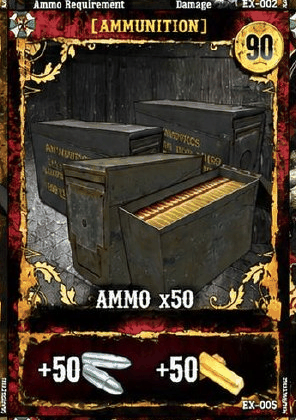
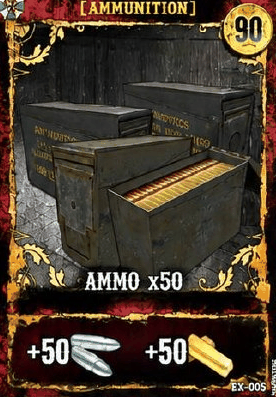
Art: re-pull the Unofficial Expansion 1 cards from the updated sheets
Manny supplied a new EX sheet and asked for EX-001..EX-009 to be pulled
from it. The sheet is a 3x3 grid whose top-middle slot is empty (pure
white) - that is EX-002's slot - so it carries only eight cards. He then
sent the EX-002 Special Rocket Launcher card on its own and said to use
it for EX-002.

All nine are re-renders, not the old artwork re-cropped: a resize-and-diff
against the previous files scores 64-89 mean abs difference across every
band. Each was quantized to 256 colours at ~274-282 px wide (EX-002
downscaled from 1054 to 282 to match the set).

Grid boundaries needed care. The strong dark peaks in the edge-strength
profile are the cards' OWN frames, not gutters - the real gutters are only
1-2px. The reliable anchors are the white empty slot (x 283..558) and the
black outer margins, giving card rectangles at x 1..282 / 283..558 /
559..832 and y 1..404 / 414..810 / 813..1215. The first attempt used the
dark peaks as gutters and cut 4-5px into every card.

The crops are tight to each card's decorative frame with no white border,
which matches the rest of CARD-ART (MA-001, WE-001, AC-001 and IT-002 all
measure 0% white border). The previous EX art was the anomaly, carrying a
few px of blank card base outside the frame.

Verified: vite build emits all nine hashed assets and :1724 serves them.

diff --git a/HANDOFF.md b/HANDOFF.md
@@ -1,5 +1,26 @@
 # HANDOFF — resume here
 
+**Unofficial Expansion 1 art re-pulled from Manny's updated sheets (2026-11-10):** Manny sent a
+new EX sheet (840x1216 PNG) and asked for EX-001..EX-009 to be pulled from it. It is a 3x3 grid
+with the **top-middle slot EMPTY (pure white, RGB 255,255,255, std 0)** — that is EX-002's slot,
+so the sheet carries only 8 cards. He then sent the EX-002 Special Rocket Launcher card
+separately (1054x1492 PNG, card face only, no background) and said "use this for ex-002".
+Mapping: EX-001<-r0c0, EX-003<-r0c2, EX-004<-r1c0, EX-005<-r1c1, EX-006<-r1c2, EX-007<-r2c0,
+EX-008<-r2c1, EX-009<-r2c2 (confirmed by reading each bottom-right corner crop individually; a
+full-sheet read mislabelled r0c2 as EX-002 - the name "Weapon Case" is EX-003, EX-002 is the
+Special Rocket Launcher weapon card). **Grid boundaries were the tricky part:** the strong
+dark peaks in the edge-strength profile are the CARDS' OWN frames, not gutters - the real
+gutters/margins are only 1-2px. The reliable anchors are the white empty slot (x 283..558) and
+the black outer margins (x 0..0, 833..839, y 0..0, 1214..1215). Correct card rectangles:
+col1 x 1..282, col2 x 283..558, col3 x 559..832; row1 y 1..404, row2 y 414..810, row3 y 813..1215.
+The first attempt used the dark peaks as gutters and cut 4-5px into every card. All nine are now
+quantized to 256 colours at ~274-282 px wide (EX-002 downscaled from 1054 to 282 to match), and
+every crop is tight to the card's decorative frame with **no white border** - which matches the
+rest of the CARD-ART set (MA-001/WE-001/AC-001/IT-002 all measure 0% white border); the OLD EX
+art was the anomaly, carrying a few px of blank card base outside the frame. Note the new renders
+differ from the old artwork (resize-and-diff scores 64-89 mean abs), so these are genuinely new
+images, not the old ones re-cropped.
+
 **Promo (PR-*) art re-extracted as WHOLE CARDS (2026-11-09):** Manny supplied the
 promo contact sheet (`...\Tabletop Simulator\Mods\Images\httpssteamusercontentaakamaihdnetugc8597016264951356044441A5720A186471CFB7F9630C44D760C710889.png`,
 5500x5390, cards filling only the top 1539 px: 10 @ 550x770 in row 1 + the stray
